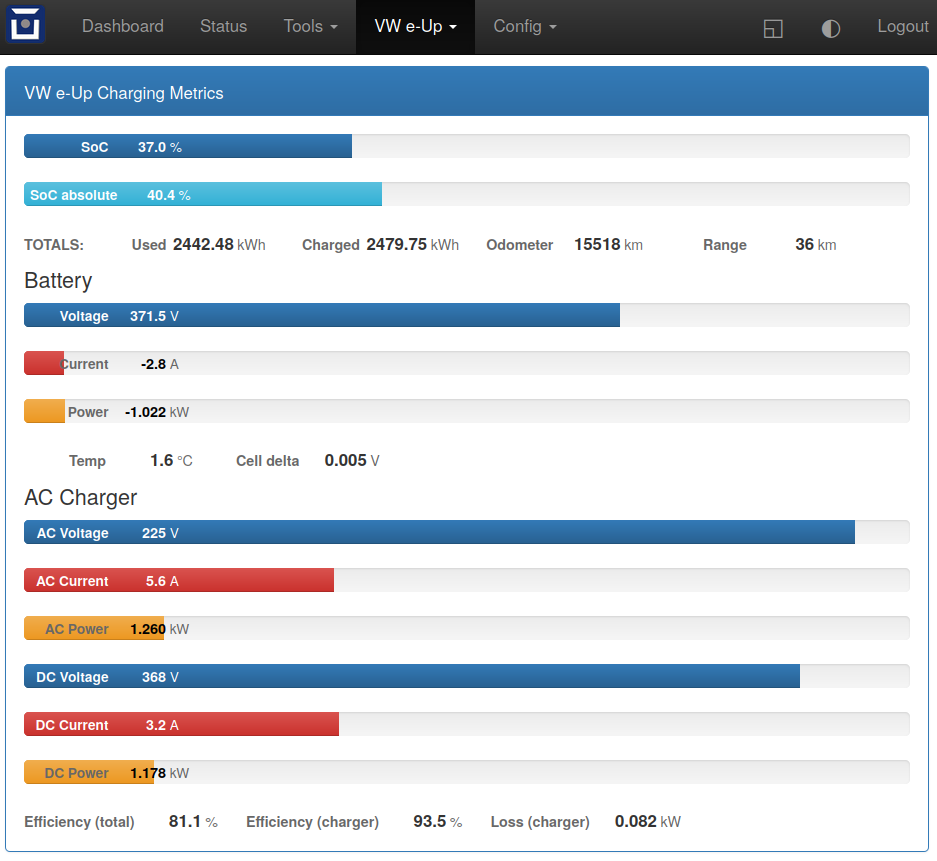
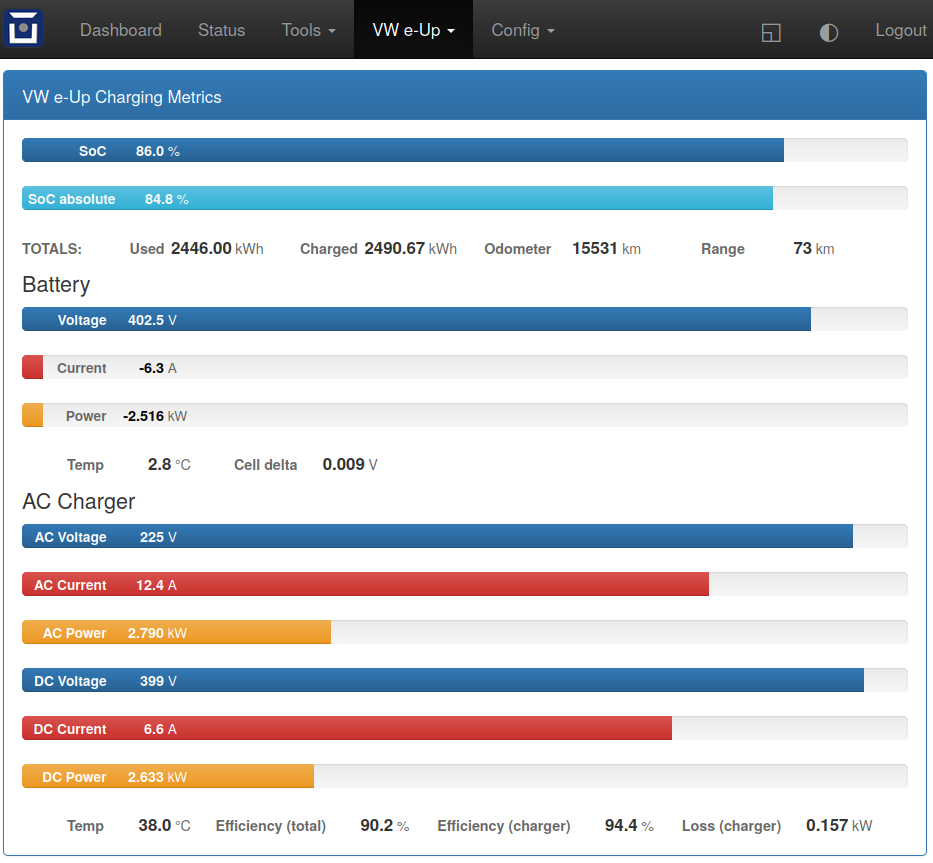
final cleanup before deleting OBD and T26 subprojects

diff --git a/vehicle/OVMS.V3/components/vehicle_vweup_all/src/vweup_t26.cpp b/vehicle/OVMS.V3/components/vehicle_vweup_all/src/vweup_t26.cpp
@@ -30,7 +30,7 @@
 */
 
 /*
-;    Subproject:    Integration of support for the VW e-UP
+;    Subproject:    Integration of support for the VW e-UP via Comfort CAN
 ;    Date:          21st November 2020
 ;
 ;    Changes:
@@ -167,52 +167,6 @@ void OvmsVehicleVWeUp::T26Init()
     StandardMetrics.ms_v_env_headlights->SetValue(false);
 }
 
-/*
-bool OvmsVehicleVWeUp::SetFeature(int key, const char *value)
-{
-    switch (key)
-    {
-    case 15:
-    {
-        int bits = atoi(value);
-        MyConfig.SetParamValueBool("xvu", "canwrite", (bits & 1) != 0);
-        return true;
-    }
-    default:
-        return OvmsVehicle::SetFeature(key, value);
-    }
-}
-
-const std::string OvmsVehicleVWeUp::GetFeature(int key)
-{
-    switch (key)
-    {
-    case 15:
-    {
-        int bits =
-            (MyConfig.GetParamValueBool("xvu", "canwrite", false) ? 1 : 0);
-        char buf[4];
-        sprintf(buf, "%d", bits);
-        return std::string(buf);
-    }
-    default:
-        return OvmsVehicle::GetFeature(key);
-    }
-}
-
-void OvmsVehicleVWeUp::ConfigChanged(OvmsConfigParam *param)
-{
-    ESP_LOGD(TAG, "VW e-Up reload configuration");
-
-    vweup_modelyear = MyConfig.GetParamValueInt("xvu", "modelyear", DEFAULT_MODEL_YEAR);
-    vweup_enable_obd = MyConfig.GetParamValueBool("xvu", "con_obd", true);
-    vweup_enable_t26 = MyConfig.GetParamValueBool("xvu", "con_t26", true);
-    vweup_enable_write = MyConfig.GetParamValueBool("xvu", "canwrite", false);
-    vweup_cc_temp_int = MyConfig.GetParamValueInt("xvu", "cc_temp", 21);
-    ObdInit(); // reload OBD command list in case gen1/2 was changed
-}
-*/
-
 // Takes care of setting all the state appropriate when the car is on
 // or off.
 //
@@ -257,8 +211,6 @@ void OvmsVehicleVWeUp::vehicle_vweup_car_on(bool turnOn)
         StandardMetrics.ms_v_charge_current->SetValue(0);
         PollSetState(VWEUP_OFF);
     }
-//    else if (turnOn)
-//        PollSetState(VWEUP_ON);
 }
 
 void OvmsVehicleVWeUp::IncomingFrameCan3(CAN_frame_t *p_frame)
@@ -343,7 +295,6 @@ void OvmsVehicleVWeUp::IncomingFrameCan3(CAN_frame_t *p_frame)
     case 0x65D: // ODO
         StandardMetrics.ms_v_pos_odometer->SetValue(((uint32_t)(d[3] & 0xf) << 12) | ((UINT)d[2] << 8) | d[1]);
         StandardMetrics.ms_v_pos_trip->SetValue(StandardMetrics.ms_v_pos_odometer->AsFloat()-OdoStart); // so far we don't know where to get trip distance directly...
-//        ESP_LOGI(TAG,"Odo Counter: %f",StandardMetrics.ms_v_pos_trip->AsFloat());
         break;
 
     case 0x320: // Speed
@@ -734,7 +685,6 @@ OvmsVehicle::vehicle_command_t OvmsVehicleVWeUp::CommandWakeup()
         xTimerStart(m_sendOcuHeartbeat, 0);
 
         ESP_LOGI(TAG, "Sent Wakeup Command - stage 2");
-//        OvmsVehicleVWeUp::vehicle_vweup_car_on(true); // make sure OBD knows that car is on
     }
     // This can be done better. Gives always success, even when already awake.
     return Success;

diff --git a/vehicle/OVMS.V3/components/vehicle_vweup_all/src/vweup_obd.cpp b/vehicle/OVMS.V3/components/vehicle_vweup_all/src/vweup_obd.cpp
@@ -1,21 +1,19 @@
 /**
  * Project:      Open Vehicle Monitor System
- * Module:       OBD for VW e-Up
- *
- * (c) 2020  sharkcow <sharkcow@gmx.de>
- * (c) 2019  Anko Hanse <anko_hanse@hotmail.com>
- * (c) 2017  Michael Balzer <dexter@dexters-web.de>
- *
+ * Module:       VW e-Up via OBD Port
+ * 
+ * (c) 2020 Soko
+ * 
  * Permission is hereby granted, free of charge, to any person obtaining a copy
  * of this software and associated documentation files (the "Software"), to deal
  * in the Software without restriction, including without limitation the rights
  * to use, copy, modify, merge, publish, distribute, sublicense, and/or sell
  * copies of the Software, and to permit persons to whom the Software is
  * furnished to do so, subject to the following conditions:
- *
+ * 
  * The above copyright notice and this permission notice shall be included in
  * all copies or substantial portions of the Software.
- *
+ * 
  * THE SOFTWARE IS PROVIDED "AS IS", WITHOUT WARRANTY OF ANY KIND, EXPRESS OR
  * IMPLIED, INCLUDING BUT NOT LIMITED TO THE WARRANTIES OF MERCHANTABILITY,
  * FITNESS FOR A PARTICULAR PURPOSE AND NONINFRINGEMENT. IN NO EVENT SHALL THE
@@ -116,18 +114,13 @@ const OvmsVehicle::poll_pid_t vweup2_polls[] = {
 const int vweup_polls_len = sizeof(vweup_polls)/sizeof(vweup_polls)[0];
 const int vweup1_polls_len = sizeof(vweup1_polls)/sizeof(vweup1_polls)[0];
 const int vweup2_polls_len = sizeof(vweup2_polls)/sizeof(vweup2_polls)[0];
-//if (vweup1_polls_len > vweup2_polls_len){
+
 OvmsVehicleVWeUp::poll_pid_t vweup_polls_all[1+vweup_polls_len+vweup1_polls_len]; // not good, length should be max of the two possible lists
-//}
-//else {
-//OvmsVehicleVWeUp::poll_pid_t vweup_polls_all[vweup_polls_len+vweup2_polls_len];
-//}
 
 void OvmsVehicleVWeUp::OBDInit()
 {
     ESP_LOGI(TAG, "Starting connection: OBDII");
     RegisterCanBus(1, CAN_MODE_ACTIVE, CAN_SPEED_500KBPS);
-//    ESP_LOGD(TAG,"Starting OBD Polling...");
 
     // init polls:
     if (vweup_con == 2) // only OBD connected -> get car state by polling OBD

diff --git a/vehicle/OVMS.V3/components/vehicle_vweup_all/src/vweup_web.cpp b/vehicle/OVMS.V3/components/vehicle_vweup_all/src/vweup_web.cpp
@@ -388,6 +388,11 @@ void OvmsVehicleVWeUp::WebDispChgMetrics(PageEntry_t &p, PageContext_t &c)
                 "</div>"
 
                 "<div class=\"clearfix\">"
+                    "<div class=\"metric number\" data-metric=\"v.c.temp\" data-prec=\"1\">"
+                        "<span class=\"label\">Temp</span>"
+                        "<span class=\"value\">?</span>"
+                        "<span class=\"unit\">°C</span>"
+                    "</div>"
                     "<div class=\"metric number\" data-metric=\"v.c.efficiency\" data-prec=\"1\">"
                         "<span class=\"label\">Efficiency (total)</span>"
                         "<span class=\"value\">?</span>"

diff --git a/vehicle/OVMS.V3/components/vehicle_vweup_all/docs/index.rst b/vehicle/OVMS.V3/components/vehicle_vweup_all/docs/index.rst
@@ -20,7 +20,7 @@ Connection to OBD2 is done with the standard OVMS OBD2-cable just below the fuse
 .. image:: DSC00369_1024.JPG
     :width: 480px
 
-Connection to Comfort CAN can be done by removing the OCU below the passenger seat (advantage: the connections for the GSM & GPS-antennas of the car can be used):
+Connection to Comfort CAN can be done by removing the OCU below the passenger seat using a custom 26-pin adapter cable to the T26A plug (advantage: the connections for the GSM & GPS-antennas of the car can be used using a Fakra-SMA adapter):
 
 .. image:: location.png
     :width: 480px
@@ -58,12 +58,6 @@ By default, both connections are activated.
 
 For more details on the two connection types, please see the corresponding projects:
 
-.. toctree::
-   :maxdepth: 1
-
-   index_obd
-   index_t26
-
 Comfort CAN (T26): `https://github.com/devmarxx/Open-Vehicle-Monitoring-System-3/blob/master/vehicle/OVMS.V3/components/vehicle_vweup/docs/index.rst <https://github.com/devmarxx/Open-Vehicle-Monitoring-System-3/blob/master/vehicle/OVMS.V3/components/vehicle_vweup/docs/index.rst>`_ 
 
 OBD2: `https://github.com/SokoFromNZ/Open-Vehicle-Monitoring-System-3/blob/master/vehicle/OVMS.V3/components/vehicle_vweup_obd/docs/index.rst <https://github.com/SokoFromNZ/Open-Vehicle-Monitoring-System-3/blob/master/vehicle/OVMS.V3/components/vehicle_vweup_obd/docs/index.rst>`_ 
@@ -83,8 +77,6 @@ Beware: obviously, these values have great uncertainties (in my car, the DC outp
 But e.g. the internal energy counters are very informative :)
 
 Additional custom web pages (code for the example above is below) can be defined as described here: https://docs.openvehicles.com/en/latest/plugin/README.html?highlight=web%20plugin#installing-web-plugins
-
-:ref:`columns-inline`
 
 ----------------
 Support Overview
@@ -214,5 +206,187 @@ xvu.v.m.t                     OBD        123 days                 Time to next s
 -----------------------------------------------------
 Example Code for Web Plugin with some custom metrics:
 -----------------------------------------------------
-.. _columns-inline:
 
+.. code-block::
+
+  <div class="panel panel-primary">
+   <div class="panel-heading">Custom Metrics</div>
+   <div class="panel-body">
+
+    <hr/>
+
+    <div class="receiver">
+     <div class="clearfix">
+      <div class="metric progress" data-metric="v.b.soc" data-prec="1">
+       <div class="progress-bar value-low text-left" role="progressbar"
+        aria-valuenow="0" aria-valuemin="0" aria-valuemax="100" style="width:0%">
+        <div>
+         <span class="label">SoC</span>
+         <span class="value">?</span>
+         <span class="unit">%</span>
+        </div>
+       </div>
+      </div>
+      <div class="metric progress" data-metric="xvu.b.soc.abs" data-prec="1">
+       <div class="progress-bar progress-bar-info value-low text-left" role="progressbar"
+        aria-valuenow="0" aria-valuemin="0" aria-valuemax="100" style="width:0%">
+        <div>
+         <span class="label">SoC (absolute)</span>
+         <span class="value">?</span>
+         <span class="unit">%</span>
+        </div>
+       </div>
+      </div>
+     </div>
+     <div class="clearfix">
+      <div class="metric number" data-metric="v.b.energy.used.total" data-prec="2">
+       <span class="label">TOTALS:&nbsp&nbsp&nbsp&nbsp&nbsp&nbsp&nbsp&nbsp&nbsp&nbsp&nbsp&nbspUsed</span>
+       <span class="value">?</span>
+       <span class="unit">kWh</span>
+      </div>
+      <div class="metric number" data-metric="v.b.energy.recd.total" data-prec="2">
+       <span class="label">Charged</span>
+       <span class="value">?</span>
+       <span class="unit">kWh</span>
+      </div>
+      <div class="metric number" data-metric="v.p.odometer" data-prec="0">
+       <span class="label">Odo</span>
+       <span class="value">?</span>
+       <span class="unit">km</span>
+      </div>
+      <div class="metric number" data-metric="v.e.serv.range" data-prec="0">
+       <span class="label">SERVICE:&nbsp&nbsp&nbsp&nbsp&nbsp&nbsp&nbsp&nbsp&nbsp&nbsp&nbsp&nbspRange</span>
+       <span class="value">?</span>
+       <span class="unit">km</span>
+      </div>
+      <div class="metric number" data-metric="xvu.e.serv.days" data-prec="0">
+       <span class="label">Days</span>
+       <span class="value">?</span>
+       <span class="unit"></span>
+      </div>
+     </div>
+
+     <h4>Battery</h4>
+
+     <div class="clearfix">
+      <div class="metric progress" data-metric="v.b.voltage" data-prec="1">
+       <div class="progress-bar value-low text-left" role="progressbar"
+        aria-valuenow="0" aria-valuemin="300" aria-valuemax="420" style="width:0%">
+        <div>
+         <span class="label">Voltage</span>
+         <span class="value">?</span>
+         <span class="unit">V</span>
+        </div>
+       </div>
+      </div>
+      <div class="metric progress" data-metric="v.b.current" data-prec="1">
+       <div class="progress-bar progress-bar-danger value-low text-left" role="progressbar"
+        aria-valuenow="0" aria-valuemin="-200" aria-valuemax="200" style="width:0%">
+        <div>
+         <span class="label">Current</span>
+         <span class="value">?</span>
+         <span class="unit">A</span>
+        </div>
+       </div>
+      </div>
+      <div class="metric progress" data-metric="v.b.power" data-prec="3">
+       <div class="progress-bar progress-bar-warning value-low text-left" role="progressbar"
+        aria-valuenow="0" aria-valuemin="-70" aria-valuemax="70" style="width:0%">
+        <div>
+         <span class="label">Power</span>
+         <span class="value">?</span>
+         <span class="unit">kW</span>
+        </div>
+       </div>
+      </div>
+     </div>
+     <div class="clearfix">
+      <div class="metric number" data-metric="v.b.temp" data-prec="1">
+       <span class="label">Temp</span>
+       <span class="value">?</span>
+       <span class="unit">°C</span>
+      </div>
+      <div class="metric number" data-metric="xvu.b.cell.delta" data-prec="3">
+       <span class="label">Cell delta</span>
+       <span class="value">?</span>
+       <span class="unit">V</span>
+      </div>
+     </div>
+
+     <h4>Temperatures</h4>
+
+     <div class="clearfix">
+      <div class="metric progress" data-metric="v.e.temp" data-prec="1">
+       <div class="progress-bar progress-bar-warning value-low text-left" role="progressbar"
+        aria-valuenow="0" aria-valuemin="-10" aria-valuemax="40" style="width:0%">
+        <div>
+         <span class="label">Ambient</span>
+         <span class="value">?</span>
+         <span class="unit">°C</span>
+        </div>
+       </div>
+      </div>
+      <div class="metric progress" data-metric="v.e.cabintemp" data-prec="1">
+       <div class="progress-bar progress-bar-warning value-low text-left" role="progressbar"
+        aria-valuenow="0" aria-valuemin="-10" aria-valuemax="40" style="width:0%">
+        <div>
+         <span class="label">Cabin</span>
+         <span class="value">?</span>
+         <span class="unit">°C</span>
+        </div>
+       </div>
+      </div>
+      <div class="metric progress" data-metric="v.b.temp" data-prec="1">
+       <div class="progress-bar progress-bar-warning value-low text-left" role="progressbar"
+        aria-valuenow="0" aria-valuemin="-10" aria-valuemax="40" style="width:0%">
+        <div>
+         <span class="label">Battery</span>
+         <span class="value">?</span>
+         <span class="unit">°C</span>
+        </div>
+       </div>
+      </div>
+      <div class="metric progress" data-metric="v.c.temp" data-prec="1">
+       <div class="progress-bar progress-bar-warning value-low text-left" role="progressbar"
+        aria-valuenow="0" aria-valuemin="-10" aria-valuemax="40" style="width:0%">
+        <div>
+         <span class="label">Charger</span>
+         <span class="value">?</span>
+         <span class="unit">°C</span>
+        </div>
+       </div>
+      </div>
+      <div class="metric progress" data-metric="v.c.12v.temp" data-prec="1">
+       <div class="progress-bar progress-bar-warning value-low text-left" role="progressbar"
+        aria-valuenow="0" aria-valuemin="-10" aria-valuemax="40" style="width:0%">
+        <div>
+         <span class="label">DC/DC-Converter</span>
+         <span class="value">?</span>
+         <span class="unit">°C</span>
+        </div>
+       </div>
+      </div>
+      <div class="metric progress" data-metric="v.i.temp" data-prec="1">
+       <div class="progress-bar progress-bar-warning value-low text-left" role="progressbar"
+        aria-valuenow="0" aria-valuemin="-10" aria-valuemax="40" style="width:0%">
+        <div>
+         <span class="label">Inverter</span>
+         <span class="value">?</span>
+         <span class="unit">°C</span>
+        </div>
+       </div>
+      </div>
+      <div class="metric progress" data-metric="v.m.temp" data-prec="1">
+       <div class="progress-bar progress-bar-warning value-low text-left" role="progressbar"
+        aria-valuenow="0" aria-valuemin="-10" aria-valuemax="40" style="width:0%">
+        <div>
+         <span class="label">Motor</span>
+         <span class="value">?</span>
+         <span class="unit">°C</span>
+        </div>
+       </div>
+      </div>
+     </div>
+    </div>
+   </div>
+  </div>
